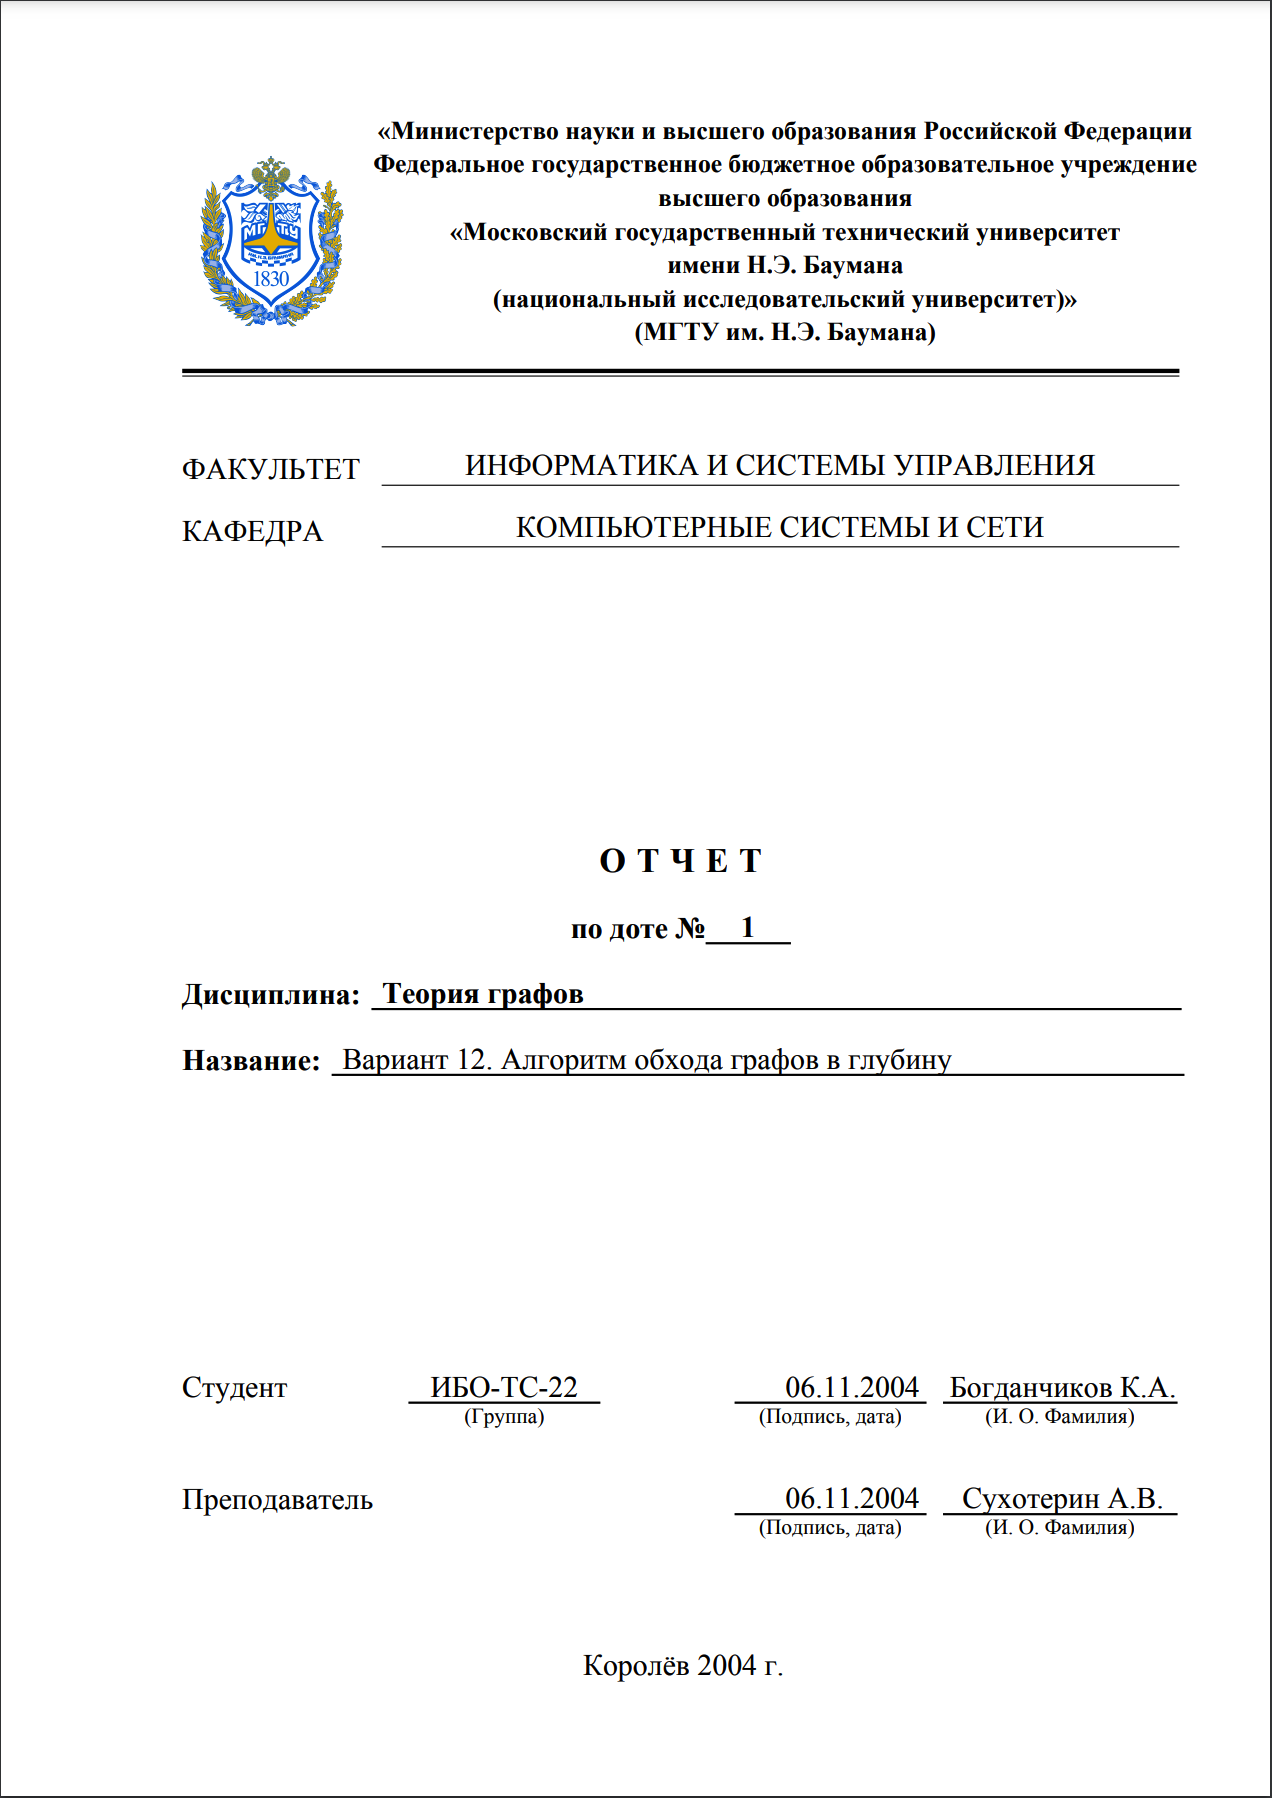
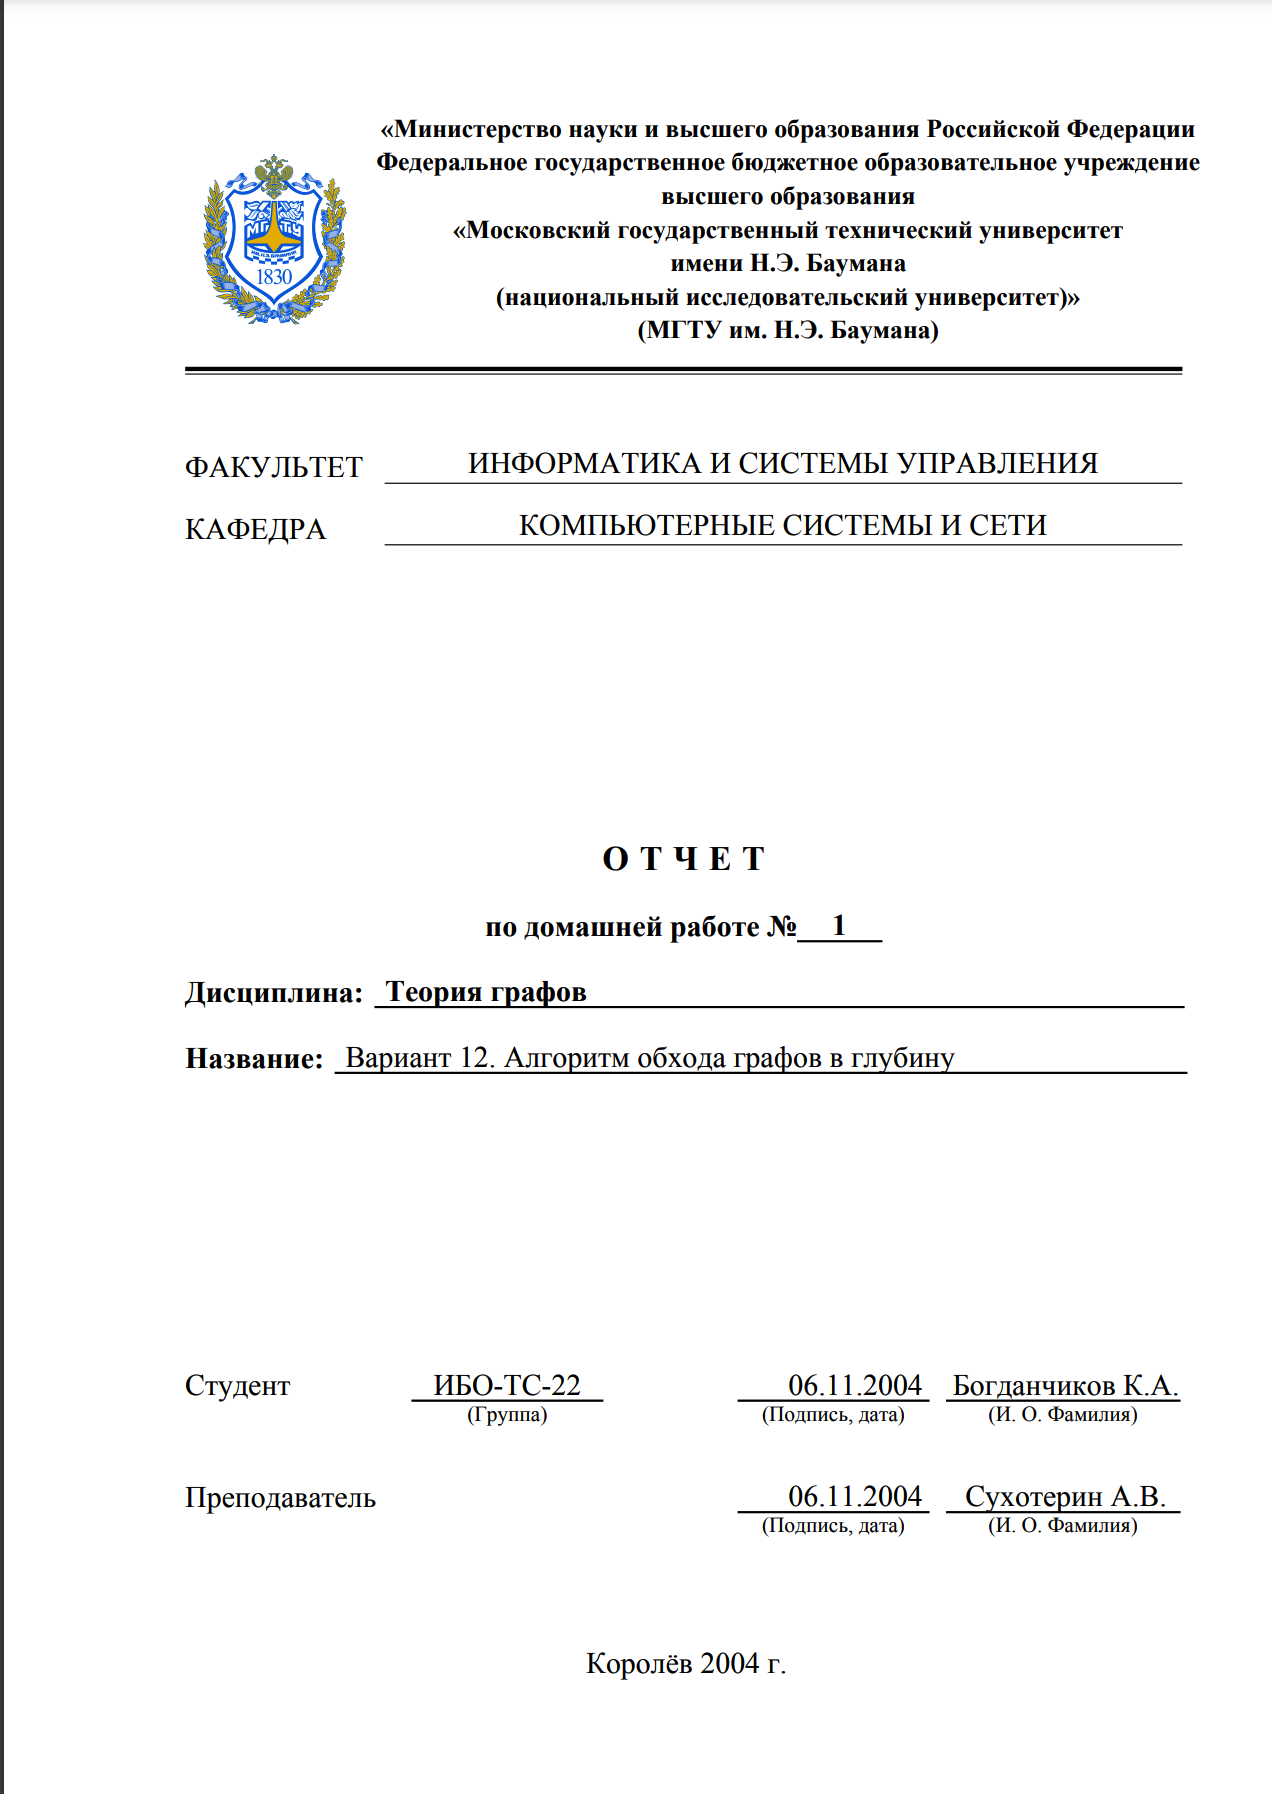
remove dote

diff --git a/README.md b/README.md
@@ -25,7 +25,7 @@ git clone https://github.com/pluttan/typst-bmstu $HOME/typst-bmstu
 #show: student_work.with(
   caf_name: "Компьютерные системы и сети",// Название кафедры (необязательно)
   faculty_name: "Информатика и системы управления", // Название факультета (необязательно)
-  work_type: "доте", // Вид работы (в предложном падеже) и ее номер (необязательно)
+  work_type: "домашней работе", // Вид работы (в предложном падеже) и ее номер (необязательно)
   work_num: "1",
   discipline_name: "Теория графов", // Название дисциплины (необязательно)
   theme: "Вариант 12. Алгоритм обхода графов в глубину", // Тема работы (необязательно)
